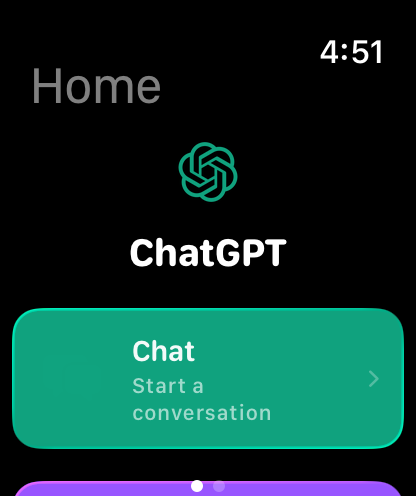
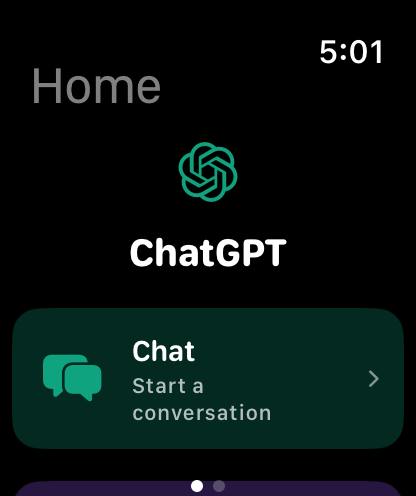
Fix invisible button labels + start relay tunnel
- Replace all .glassEffect() on NavigationLink labels and content
  views with .background(.ultraThinMaterial) — glass effect was
  swallowing text content on watchOS, making buttons appear empty
- Replace .buttonStyle(.glass/.glassProminent) with
  .buttonStyle(.bordered/.borderedProminent) for reliable rendering
- Home cards now use tint.opacity(0.25) background with explicit
  .white foreground — always visible
- Update Cloudflare tunnel URL to active tunnel
- Relay server started and accessible for Codex tasks

Changed region(s): [[0.0312, 0.6048, 0.9688, 0.9073], [0.0312, 0.9677, 0.9688, 1.0], [0.75, 0.0605, 0.9062, 0.1512]]

diff --git a/WatchApp/Views/Codex/CodexSessionsView.swift b/WatchApp/Views/Codex/CodexSessionsView.swift
@@ -13,17 +13,13 @@ struct CodexSessionsView: View {
                 // Relay status
                 HStack(spacing: DesignTokens.Spacing.sm) {
                     Circle()
-                        .fill(relayOnline ? DesignTokens.Colors.successGreen : DesignTokens.Colors.errorRed)
+                        .fill(checkingRelay ? Color.gray : (relayOnline ? DesignTokens.Colors.successGreen : DesignTokens.Colors.errorRed))
                         .frame(width: 6, height: 6)
-                    Text(relayOnline ? "Relay connected" : "Relay offline")
+                    Text(checkingRelay ? "Checking..." : (relayOnline ? "Relay connected" : "Relay offline"))
                         .font(DesignTokens.Typography.micro)
-                        .foregroundStyle(relayOnline ? DesignTokens.Colors.successGreen : DesignTokens.Colors.errorRed)
+                        .foregroundStyle(.secondary)
                     Spacer()
-                    if checkingRelay {
-                        ProgressView()
-                            .scaleEffect(0.5)
-                            .frame(width: 12, height: 12)
-                    } else {
+                    if !checkingRelay {
                         Button {
                             checkRelay()
                         } label: {
@@ -34,37 +30,32 @@ struct CodexSessionsView: View {
                         .buttonStyle(.plain)
                     }
                 }
-                .padding(.horizontal, DesignTokens.Spacing.sm)
-                .padding(.vertical, DesignTokens.Spacing.xs)
-                .glassEffect(.regular, in: .capsule)
+                .padding(.horizontal, DesignTokens.Spacing.md)
+                .padding(.vertical, DesignTokens.Spacing.sm)
+                .background(.ultraThinMaterial)
+                .clipShape(Capsule())
 
                 if !relayOnline && !checkingRelay {
-                    // Offline instructions
                     VStack(alignment: .leading, spacing: DesignTokens.Spacing.sm) {
                         Label("Setup Required", systemImage: "exclamationmark.triangle.fill")
                             .font(DesignTokens.Typography.caption)
                             .foregroundStyle(DesignTokens.Colors.warningAmber)
 
-                        Text("Start the relay server on your Mac:")
+                        Text("Start relay on your Mac:")
                             .font(DesignTokens.Typography.micro)
                             .foregroundStyle(.secondary)
 
-                        Text("cd codex-relay && node server.js")
+                        Text("cd codex-relay\nnode server.js")
                             .font(DesignTokens.Typography.code)
                             .foregroundStyle(DesignTokens.Colors.codexPurple)
 
-                        Text("Then expose via Cloudflare Tunnel or update the relay URL in the app.")
+                        Text("Then expose via Cloudflare Tunnel.")
                             .font(DesignTokens.Typography.micro)
                             .foregroundStyle(.tertiary)
                     }
-                    .cardStyle()
-
-                    if let error = appState.codexVM.errorMessage {
-                        Label(error, systemImage: "xmark.circle")
-                            .font(DesignTokens.Typography.micro)
-                            .foregroundStyle(DesignTokens.Colors.errorRed)
-                            .padding(.horizontal, DesignTokens.Spacing.sm)
-                    }
+                    .padding(DesignTokens.Spacing.md)
+                    .background(.ultraThinMaterial)
+                    .clipShape(RoundedRectangle(cornerRadius: DesignTokens.Radius.medium, style: .continuous))
                 }
 
                 // New Task
@@ -72,19 +63,20 @@ struct CodexSessionsView: View {
                     NewCodexTaskView()
                 } label: {
                     HStack(spacing: DesignTokens.Spacing.sm) {
-                        Image(systemName: "plus")
-                            .font(.system(size: 13, weight: .bold))
+                        Image(systemName: "plus.circle.fill")
+                            .font(.system(size: 18))
                             .foregroundStyle(DesignTokens.Colors.codexPurple)
                         Text("New Task")
                             .font(DesignTokens.Typography.bodyMedium)
-                            .foregroundStyle(DesignTokens.Colors.codexPurple)
+                            .foregroundStyle(.white)
                         Spacer()
                         Image(systemName: "chevron.right")
                             .font(.system(size: 9))
-                            .foregroundStyle(.tertiary)
+                            .foregroundStyle(.white.opacity(0.5))
                     }
                     .padding(DesignTokens.Spacing.md)
-                    .glassEffect(.regular.tint(DesignTokens.Colors.codexPurple), in: .rect(cornerRadius: DesignTokens.Radius.medium))
+                    .background(DesignTokens.Colors.codexPurple.opacity(0.25))
+                    .clipShape(RoundedRectangle(cornerRadius: DesignTokens.Radius.medium, style: .continuous))
                 }
                 .buttonStyle(.plain)
                 .disabled(!relayOnline)
@@ -117,6 +109,13 @@ struct CodexSessionsView: View {
                     ProgressView()
                         .tint(DesignTokens.Colors.codexPurple)
                         .padding()
+                }
+
+                if let error = appState.codexVM.errorMessage {
+                    Text(error)
+                        .font(DesignTokens.Typography.micro)
+                        .foregroundStyle(DesignTokens.Colors.errorRed)
+                        .padding(DesignTokens.Spacing.sm)
                 }
             }
             .padding(.horizontal, DesignTokens.Spacing.xs)

diff --git a/WatchApp/Views/Settings/SettingsView.swift b/WatchApp/Views/Settings/SettingsView.swift
@@ -34,14 +34,14 @@ struct SettingsView: View {
                                 showAPIKey = true
                             }
                             .font(DesignTokens.Typography.micro)
-                            .buttonStyle(.glass)
+                            .buttonStyle(.bordered)
 
                             Button("Sign Out") {
                                 appState.authService.signOut()
                                 appState.settingsVM.clearAllData()
                             }
                             .font(DesignTokens.Typography.micro)
-                            .buttonStyle(.glass)
+                            .buttonStyle(.bordered)
                             .tint(DesignTokens.Colors.errorRed)
                         }
                     } else {
@@ -58,7 +58,7 @@ struct SettingsView: View {
                             showAPIKey = true
                         }
                         .font(DesignTokens.Typography.caption)
-                        .buttonStyle(.glassProminent)
+                        .buttonStyle(.borderedProminent)
                         .tint(DesignTokens.Colors.chatGPTGreen)
                     }
                 }
@@ -113,7 +113,7 @@ struct SettingsView: View {
                         .frame(maxWidth: .infinity)
                         .padding(.vertical, DesignTokens.Spacing.sm)
                 }
-                .buttonStyle(.glass)
+                .buttonStyle(.bordered)
                 .tint(DesignTokens.Colors.errorRed)
 
                 // Version
@@ -163,10 +163,10 @@ struct APIKeyInputView: View {
 
             HStack(spacing: DesignTokens.Spacing.sm) {
                 Button("Cancel") { dismiss() }
-                    .buttonStyle(.glass)
+                    .buttonStyle(.bordered)
 
                 Button("Save") { onSave() }
-                    .buttonStyle(.glassProminent)
+                    .buttonStyle(.borderedProminent)
                     .tint(DesignTokens.Colors.chatGPTGreen)
                     .disabled(apiKey.trimmed.isEmpty)
             }

diff --git a/WatchApp/Views/Chat/ConversationsListView.swift b/WatchApp/Views/Chat/ConversationsListView.swift
@@ -14,21 +14,24 @@ struct ConversationsListView: View {
                     NewChatView()
                 } label: {
                     HStack(spacing: DesignTokens.Spacing.sm) {
-                        Image(systemName: "plus")
-                            .font(.system(size: 13, weight: .bold))
+                        Image(systemName: "plus.circle.fill")
+                            .font(.system(size: 18))
                             .foregroundStyle(DesignTokens.Colors.chatGPTGreen)
                         Text("New Chat")
                             .font(DesignTokens.Typography.bodyMedium)
-                            .foregroundStyle(DesignTokens.Colors.chatGPTGreen)
+                            .foregroundStyle(.white)
                         Spacer()
+                        Image(systemName: "chevron.right")
+                            .font(.system(size: 9))
+                            .foregroundStyle(.white.opacity(0.5))
                     }
                     .padding(DesignTokens.Spacing.md)
-                    .glassEffect(.regular.tint(DesignTokens.Colors.chatGPTGreen), in: .rect(cornerRadius: DesignTokens.Radius.medium))
+                    .background(DesignTokens.Colors.chatGPTGreen.opacity(0.25))
+                    .clipShape(RoundedRectangle(cornerRadius: DesignTokens.Radius.medium, style: .continuous))
                 }
                 .buttonStyle(.plain)
 
                 if convList.isEmpty {
-                    // Empty state
                     VStack(spacing: DesignTokens.Spacing.md) {
                         Image(systemName: "bubble.left.and.bubble.right")
                             .font(.system(size: 28))
@@ -95,6 +98,7 @@ struct ConversationRow: View {
             }
         }
         .padding(DesignTokens.Spacing.md)
-        .glassEffect(.regular, in: .rect(cornerRadius: DesignTokens.Radius.medium))
+        .background(.ultraThinMaterial)
+        .clipShape(RoundedRectangle(cornerRadius: DesignTokens.Radius.medium, style: .continuous))
     }
 }

diff --git a/WatchApp/Views/Chat/NewChatView.swift b/WatchApp/Views/Chat/NewChatView.swift
@@ -45,7 +45,7 @@ struct NewChatView: View {
                             Image(systemName: "mic.fill")
                                 .font(.system(size: 12))
                         }
-                        .buttonStyle(.glass)
+                        .buttonStyle(.bordered)
                         .tint(DesignTokens.Colors.chatGPTGreen)
 
                         Spacer()
@@ -54,7 +54,7 @@ struct NewChatView: View {
                             Label("Send", systemImage: "arrow.up")
                                 .font(DesignTokens.Typography.caption)
                         }
-                        .buttonStyle(.glassProminent)
+                        .buttonStyle(.borderedProminent)
                         .tint(DesignTokens.Colors.chatGPTGreen)
                         .disabled(inputText.trimmed.isEmpty)
                     }
@@ -80,7 +80,8 @@ struct NewChatView: View {
                                 Spacer()
                             }
                             .padding(DesignTokens.Spacing.sm)
-                            .glassEffect(.regular, in: .rect(cornerRadius: DesignTokens.Radius.small))
+                            .background(.ultraThinMaterial)
+                            .clipShape(RoundedRectangle(cornerRadius: DesignTokens.Radius.small, style: .continuous))
                         }
                         .buttonStyle(.plain)
                     }

diff --git a/WatchApp/App/ContentView.swift b/WatchApp/App/ContentView.swift
@@ -8,13 +8,11 @@ struct ContentView: View {
 
     var body: some View {
         TabView(selection: $currentPage) {
-            // Page 1: Home
             NavigationStack {
                 HomeView()
             }
             .tag(0)
 
-            // Page 2: Settings (horizontal swipe)
             NavigationStack {
                 SettingsView()
             }
@@ -128,18 +126,20 @@ struct HomeCard: View {
             VStack(alignment: .leading, spacing: DesignTokens.Spacing.xxs) {
                 Text(title)
                     .font(DesignTokens.Typography.sectionHeader)
+                    .foregroundStyle(.white)
                 Text(subtitle)
                     .font(DesignTokens.Typography.caption)
-                    .foregroundStyle(.secondary)
+                    .foregroundStyle(.white.opacity(0.7))
             }
 
             Spacer()
 
             Image(systemName: "chevron.right")
                 .font(.system(size: 10, weight: .semibold))
-                .foregroundStyle(.tertiary)
+                .foregroundStyle(.white.opacity(0.5))
         }
         .padding(DesignTokens.Spacing.md)
-        .glassEffect(.regular.tint(tint), in: .rect(cornerRadius: DesignTokens.Radius.medium))
+        .background(tint.opacity(0.25))
+        .clipShape(RoundedRectangle(cornerRadius: DesignTokens.Radius.medium, style: .continuous))
     }
 }

diff --git a/WatchApp/Views/Voice/VoiceModeView.swift b/WatchApp/Views/Voice/VoiceModeView.swift
@@ -53,12 +53,12 @@ struct VoiceModeView: View {
                         .font(.system(size: 22))
                         .foregroundStyle(isListening ? .white : DesignTokens.Colors.chatGPTGreen)
                         .frame(width: 60, height: 60)
-                        .glassEffect(
+                        .background(
                             isListening
-                                ? .regular.tint(DesignTokens.Colors.chatGPTGreen)
-                                : .regular,
-                            in: .circle
+                                ? AnyShapeStyle(DesignTokens.Colors.chatGPTGreen)
+                                : AnyShapeStyle(.ultraThinMaterial)
                         )
+                        .clipShape(Circle())
                 }
             }
             .buttonStyle(.plain)
@@ -81,7 +81,7 @@ struct VoiceModeView: View {
                     Label("Send", systemImage: "arrow.up")
                         .font(DesignTokens.Typography.bodyMedium)
                 }
-                .buttonStyle(.glassProminent)
+                .buttonStyle(.borderedProminent)
                 .tint(DesignTokens.Colors.chatGPTGreen)
             }
         }

diff --git a/WatchApp/Views/Codex/NewCodexTaskView.swift b/WatchApp/Views/Codex/NewCodexTaskView.swift
@@ -115,7 +115,8 @@ struct NewCodexTaskView: View {
                                 Spacer()
                             }
                             .padding(DesignTokens.Spacing.sm)
-                            .glassEffect(.regular, in: .rect(cornerRadius: DesignTokens.Radius.small))
+                            .background(.ultraThinMaterial)
+                            .clipShape(RoundedRectangle(cornerRadius: DesignTokens.Radius.small, style: .continuous))
                         }
                         .buttonStyle(.plain)
                     }
@@ -138,7 +139,7 @@ struct NewCodexTaskView: View {
                     .frame(maxWidth: .infinity)
                     .padding(.vertical, DesignTokens.Spacing.xs)
                 }
-                .buttonStyle(.glassProminent)
+                .buttonStyle(.borderedProminent)
                 .tint(DesignTokens.Colors.codexPurple)
                 .disabled(taskInput.trimmed.isEmpty || appState.codexVM.isCreating)
 

diff --git a/WatchApp/Views/Codex/CodexSessionDetailView.swift b/WatchApp/Views/Codex/CodexSessionDetailView.swift
@@ -114,7 +114,7 @@ struct CodexSessionDetailView: View {
                                 appState.codexVM.cancelTask(id: sessionId)
                             }
                             .font(DesignTokens.Typography.micro)
-                            .buttonStyle(.glass)
+                            .buttonStyle(.bordered)
                             .tint(DesignTokens.Colors.errorRed)
                         }
 
@@ -122,7 +122,7 @@ struct CodexSessionDetailView: View {
                             appState.codexVM.loadSession(id: sessionId)
                         }
                         .font(DesignTokens.Typography.micro)
-                        .buttonStyle(.glass)
+                        .buttonStyle(.bordered)
                         .tint(DesignTokens.Colors.codexBlue)
                     }
                 }

diff --git a/WatchApp/Views/Chat/ChatDetailView.swift b/WatchApp/Views/Chat/ChatDetailView.swift
@@ -72,7 +72,7 @@ struct ChatDetailView: View {
                     .frame(maxWidth: .infinity)
                     .padding(.vertical, DesignTokens.Spacing.xs)
                 }
-                .buttonStyle(.glass)
+                .buttonStyle(.bordered)
                 .tint(DesignTokens.Colors.chatGPTGreen)
                 .padding(.horizontal, DesignTokens.Spacing.sm)
             }
@@ -96,7 +96,7 @@ struct ChatDetailView: View {
                             .font(.system(size: 12))
                             .foregroundStyle(DesignTokens.Colors.chatGPTGreen)
                     }
-                    .buttonStyle(.glass)
+                    .buttonStyle(.bordered)
 
                     TextField("Message", text: $inputText)
                         .font(DesignTokens.Typography.body)

diff --git a/WatchApp/Components/TypingIndicator.swift b/WatchApp/Components/TypingIndicator.swift
@@ -28,7 +28,8 @@ struct TypingIndicator: View {
             }
             .padding(.horizontal, DesignTokens.Spacing.md)
             .padding(.vertical, DesignTokens.Spacing.sm)
-            .glassEffect(.regular, in: .rect(cornerRadius: DesignTokens.Radius.medium))
+            .background(.ultraThinMaterial)
+            .clipShape(RoundedRectangle(cornerRadius: DesignTokens.Radius.medium, style: .continuous))
 
             Spacer(minLength: 16)
         }

diff --git a/WatchApp/Utilities/Extensions.swift b/WatchApp/Utilities/Extensions.swift
@@ -48,7 +48,8 @@ extension View {
     func cardStyle() -> some View {
         self
             .padding(DesignTokens.Spacing.md)
-            .glassEffect(.regular, in: .rect(cornerRadius: DesignTokens.Radius.medium))
+            .background(.ultraThinMaterial)
+            .clipShape(RoundedRectangle(cornerRadius: DesignTokens.Radius.medium, style: .continuous))
     }
 
     func glassCard() -> some View {

diff --git a/WatchApp/Views/Auth/LoginView.swift b/WatchApp/Views/Auth/LoginView.swift
@@ -41,7 +41,7 @@ struct LoginView: View {
                         }
                         .frame(maxWidth: .infinity)
                     }
-                    .buttonStyle(.glassProminent)
+                    .buttonStyle(.borderedProminent)
                     .tint(DesignTokens.Colors.chatGPTGreen)
                     .disabled(apiKey.trimmed.isEmpty || isValidating)
 
